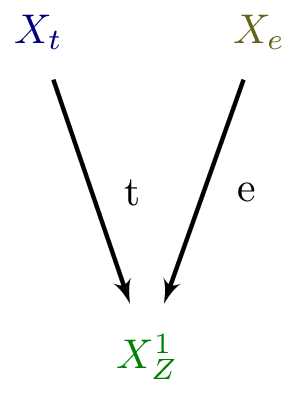
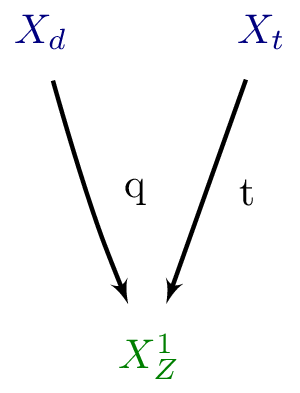
automated update by plotHiscore.py to /scratch-cbe/users/wolfgan.waltenberger/git/smodels.github.io/protomodels/latest/

diff --git a/protomodels/latest/index.html b/protomodels/latest/index.html
@@ -1,30 +1,31 @@
 <html>
 <body>
 <center>
-<table><td><h1>Current best protomodel: K=11.70</h1><td><img height=60px src=https://smodels.github.io/pics/banner.png></table>
+<table><td><h1>Current best protomodel: K=5.16</h1><td><img height=60px src=https://smodels.github.io/pics/banner.png></table>
 </center>
-<b><a href=./hiscore.slha>ProtoModel</a> <a href=./pmodel.py>(dict)</a> produced with <a href=https://smodels.github.io/docs/Validation124fake29>database v1.2.4fake29</a>, combination strategy <a href=./matrix_aggressive.png>aggressive</a> in walker 27 step 290.</b> K plots for: <a href=./M1000022.png?13733838>X<sub>Z</sub><sup>1</sup></a>, <a href=./M1000006.png?13733838>X<sub>t</sub></a>, <a href=./M1000011.png?13733838>X<sub>e</sub></a>. HPD plots for: <a href=./llhd1000006.png?13733838>X<sub>t</sub></a>, <a href=./llhd1000011.png?13733838>X<sub>e</sub></a>. SSM plots for: <a href=./ssm_-1000006_1000006.png?13733838>(x&#772;<sub>t</sub>,X<sub>t</sub>)</a><br>
+<b><a href=./hiscore.slha>ProtoModel</a> <a href=./pmodel.py>(dict)</a> produced with <a href=https://smodels.github.io/docs/Validation124fake20>database v1.2.4fake20</a>, combination strategy <a href=./matrix_aggressive.png>aggressive</a> in walker 26 step 316.</b> K plots for: <a href=./M1000022.png?13739967>X<sub>Z</sub><sup>1</sup></a>, <a href=./M1000006.png?13739967>X<sub>t</sub></a>, <a href=./M1000001.png?13739967>X<sub>d</sub></a>. HPD plots for: <a href=./llhd1000006.png?13739967>X<sub>t</sub></a>, <a href=./llhd1000001.png?13739967>X<sub>d</sub></a>. SSM plots for: <a href=./ssm_-1000006_1000006.png?13739967>(x&#772;<sub>t</sub>,X<sub>t</sub>)</a><br>
 <table width=80%>
 <tr><td>
-<br><b>30 predictions available. Highest r values are:</b><br><ul>
-<li><a href=http://cms-results.web.cern.ch/cms-results/public-results/publications/SUS-16-033/index.html>CMS-SUS-16-033</a>:T2tt r=1.30, r<sub>exp</sub>=0.82<br>
-<li><a href=https://cms-results.web.cern.ch/cms-results/public-results/publications/SUS-17-009/>CMS-SUS-17-009</a>:TSlepSlep r=1.29, r<sub>exp</sub>=2.10<br>
-<li><a href=https://atlas.web.cern.ch/Atlas/GROUPS/PHYSICS/PAPERS/SUSY-2016-24/>ATLAS-SUSY-2016-24</a>:TSlepSlep r=1.12, r<sub>exp</sub>=N/A<br>
-<li><a href=https://atlas.web.cern.ch/Atlas/GROUPS/PHYSICS/PAPERS/SUSY-2013-15/>ATLAS-SUSY-2013-15</a>:T2tt r=0.99, r<sub>exp</sub>=0.81<br>
-<li><a href=http://cms-results.web.cern.ch/cms-results/public-results/publications/SUS-16-050/index.html>CMS-SUS-16-050</a>:T2tt r=0.97, r<sub>exp</sub>=0.40<br>
+<br><b>31 predictions available. Highest r values are:</b><br><ul>
+<li><a href=http://cms-results.web.cern.ch/cms-results/public-results/publications/SUS-19-006/index.html>CMS-SUS-19-006</a>:T2tt r=1.30, r<sub>exp</sub>=0.68<br>
+<li><a href=http://cms-results.web.cern.ch/cms-results/public-results/publications/SUS-19-006/index.html>CMS-SUS-19-006</a>:T2 r=1.30, r<sub>exp</sub>=1.59<br>
+<li><a href=http://cms-results.web.cern.ch/cms-results/public-results/publications/SUS-16-050/index.html>CMS-SUS-16-050</a>:T2tt r=1.30, r<sub>exp</sub>=0.66<br>
+<li><a href=http://cms-results.web.cern.ch/cms-results/public-results/publications/SUS-16-036/index.html>CMS-SUS-16-036</a>:T2cc r=1.29, r<sub>exp</sub>=1.01<br>
+<li><a href=http://cms-results.web.cern.ch/cms-results/public-results/publications/SUS-16-033/index.html>CMS-SUS-16-033</a>:T2 r=1.12, r<sub>exp</sub>=1.44<br>
 </ul>
 <td><br><b>K values without analyses: (contribution)</b><br>
 <ul>
-<li> <a href=https://cms-results.web.cern.ch/cms-results/public-results/publications/SUS-17-009/>CMS-SUS-17-009</a>: 6.22 (15%)
-<li> <a href=http://cms-results.web.cern.ch/cms-results/public-results/publications/SUS-16-033/index.html>CMS-SUS-16-033</a>: 6.22 (15%)
-<li> <a href=https://atlas.web.cern.ch/Atlas/GROUPS/PHYSICS/PAPERS/SUSY-2013-11/>ATLAS-SUSY-2013-11</a>: 6.22 (15%)
-<li> <a href=https://atlas.web.cern.ch/Atlas/GROUPS/PHYSICS/PAPERS/SUSY-2013-04/>ATLAS-SUSY-2013-04</a>: 5.53 (17%)
-<li> <a href=https://twiki.cern.ch/twiki/bin/view/CMSPublic/PhysicsResultsSUS13011>CMS-SUS-13-011</a>: -2.84 (39%)
-<td><img width=600px src=./texdoc.png?1606733838>
-<br><font size=-1>Last updated: Mon Nov 30 11:57:18 2020</font>
+<li> <a href=https://twiki.cern.ch/twiki/bin/view/CMSPublic/PhysicsResultsSUS13012>CMS-SUS-13-012</a>: 0.80 (14%)
+<li> <a href=http://cms-results.web.cern.ch/cms-results/public-results/publications/SUS-16-049/index.html>CMS-SUS-16-049</a>: 0.80 (14%)
+<li> <a href=http://cms-results.web.cern.ch/cms-results/public-results/publications/SUS-16-051/index.html>CMS-SUS-16-051</a>: 0.80 (14%)
+<li> <a href=https://atlas.web.cern.ch/Atlas/GROUPS/PHYSICS/PAPERS/SUSY-2013-02/>ATLAS-SUSY-2013-02</a>: 0.67 (15%)
+<li> <a href=http://atlas.web.cern.ch/Atlas/GROUPS/PHYSICS/PAPERS/SUSY-2015-06/>ATLAS-SUSY-2015-06</a>: 0.43 (16%)
+<li> <a href=https://atlas.web.cern.ch/Atlas/GROUPS/PHYSICS/PAPERS/SUSY-2016-16/>ATLAS-SUSY-2016-16</a>: -2.79 (26%)
+<td><img width=600px src=./texdoc.png?1606739967>
+<br><font size=-1>Last updated: Mon Nov 30 13:39:27 2020</font>
 </table><table style="width:80%">
-<td width=45%><img height=580px src=./ruler.png?1606733838><td width=55%><img height=380px src=./decays.png?1606733838>
-<font size=-3><iframe type="text/html" height="220px" width="100%s" frameborder="0" src="./rawnumbers.html?1606733838"></iframe></font>
+<td width=45%><img height=580px src=./ruler.png?1606739967><td width=55%><img height=380px src=./decays.png?1606739967>
+<font size=-3><iframe type="text/html" height="220px" width="100%s" frameborder="0" src="./rawnumbers.html?1606739967"></iframe></font>
 </table>
 </body>
 </html>

diff --git a/protomodels/latest/rawnumbers.html b/protomodels/latest/rawnumbers.html
@@ -1,9 +1,10 @@
 <table>
 <tr><th>Analysis Name</th><th>Type</th><th>Dataset</th><th>Topos</th><th>Observed</th><th>Expected</th><th>Approx &sigma;</th><th>Particles</th>
 </tr>
-<tr><td><a href=https://atlas.web.cern.ch/Atlas/GROUPS/PHYSICS/PAPERS/SUSY-2013-04/>ATLAS-SUSY-2013-04</a></td><td>em</td> <td>GtGrid_SR_8ij80 ...</td><td>T2tt</td><td>2</td><td>0.9 +/- 0.6</td><td style="text-align:right">1.0 &sigma;</td><td style="text-align:right">X<sub>t</sub></td></tr>
-<tr><td><a href=https://atlas.web.cern.ch/Atlas/GROUPS/PHYSICS/PAPERS/SUSY-2013-11/>ATLAS-SUSY-2013-11</a></td><td>em</td> <td>Zjets</td><td>TSlepSlep</td><td>2</td><td>1.4 +/- 0.6</td><td style="text-align:right">0.5 &sigma;</td><td style="text-align:right">X<sub>e</sub></td></tr>
-<tr><td><a href=https://twiki.cern.ch/twiki/bin/view/CMSPublic/PhysicsResultsSUS13011>CMS-SUS-13-011</a></td><td>em</td> <td>LM150</td><td>T2tt</td><td>413</td><td>251 +/- 50</td><td style="text-align:right">3.1 &sigma;</td><td style="text-align:right">X<sub>t</sub></td></tr>
-<tr><td><a href=http://cms-results.web.cern.ch/cms-results/public-results/publications/SUS-16-033/index.html>CMS-SUS-16-033</a></td><td>ul</td> <td>-</td><td>T2tt</td><td> 18040.6 fb </td><td> 10559.8 fb</td><td style="text-align:right">1.4 &sigma;</td><td style="text-align:right">X<sub>t</sub></td></tr>
-<tr><td><a href=https://cms-results.web.cern.ch/cms-results/public-results/publications/SUS-17-009/>CMS-SUS-17-009</a></td><td>ul</td> <td>-</td><td>TSelSel</td><td> 45.7 fb </td><td> 19.7 fb</td><td style="text-align:right">2.6 &sigma;</td><td style="text-align:right">X<sub>e</sub></td></tr>
+<tr><td><a href=https://atlas.web.cern.ch/Atlas/GROUPS/PHYSICS/PAPERS/SUSY-2013-02/>ATLAS-SUSY-2013-02</a></td><td>em</td> <td>SR6jtp</td><td>T2</td><td>6</td><td>4.9 +/- 1.6</td><td style="text-align:right">0.4 &sigma;</td><td style="text-align:right">X<sub>d</sub></td></tr>
+<tr><td><a href=http://atlas.web.cern.ch/Atlas/GROUPS/PHYSICS/PAPERS/SUSY-2015-06/>ATLAS-SUSY-2015-06</a></td><td>em</td> <td>SR4jt</td><td>T2</td><td>6</td><td>4.1 +/- 1.1</td><td style="text-align:right">0.8 &sigma;</td><td style="text-align:right">X<sub>d</sub></td></tr>
+<tr><td><a href=https://atlas.web.cern.ch/Atlas/GROUPS/PHYSICS/PAPERS/SUSY-2016-16/>ATLAS-SUSY-2016-16</a></td><td>em</td> <td>tN_med</td><td>T2tt</td><td>55</td><td>36.3 +/- 6.6</td><td style="text-align:right">2.1 &sigma;</td><td style="text-align:right">X<sub>t</sub></td></tr>
+<tr><td><a href=https://twiki.cern.ch/twiki/bin/view/CMSPublic/PhysicsResultsSUS13012>CMS-SUS-13-012</a></td><td>ul</td> <td>-</td><td>T2</td><td> 1326.4 fb </td><td> 779.4 fb</td><td style="text-align:right">1.4 &sigma;</td><td style="text-align:right">X<sub>d</sub></td></tr>
+<tr><td><a href=http://cms-results.web.cern.ch/cms-results/public-results/publications/SUS-16-049/index.html>CMS-SUS-16-049</a></td><td>ul</td> <td>-</td><td>T2cc</td><td> 1035.2 fb </td><td> 543.6 fb</td><td style="text-align:right">1.8 &sigma;</td><td style="text-align:right">X<sub>d</sub></td></tr>
+<tr><td><a href=http://cms-results.web.cern.ch/cms-results/public-results/publications/SUS-16-051/index.html>CMS-SUS-16-051</a></td><td>ul</td> <td>-</td><td>T2tt</td><td> 31.3 fb </td><td> 24.6 fb</td><td style="text-align:right">0.5 &sigma;</td><td style="text-align:right">X<sub>t</sub></td></tr>
 </table>

diff --git a/protomodels/latest/pmodel.py b/protomodels/latest/pmodel.py
@@ -1,1 +1,1 @@
-{'masses': {1000022: 10.834, 1000006: 255.3, 1000011: 153.62}, 'ssmultipliers': {(1000022, 1000022): 0.226, (1000006, 1000006): 0.222, (-1000006, 1000006): 0.222, (-1000006, -1000006): 0.222, (1000006, 1000022): 0.222, (-1000006, 1000022): 1.008, (1000011, 1000011): 1.288, (-1000011, 1000011): 1.288, (-1000011, -1000011): 1.288, (1000011, 1000022): 1.288, (-1000011, 1000022): 1.288, (1000006, 1000011): 1.127, (-1000011, 1000006): 1.127, (-1000006, 1000011): 1.127, (-1000011, -1000006): 1.127}, 'decays': {1000022: {}, 1000006: {(1000022, 6): 1.0}, 1000011: {(1000022, 11): 1.0}}, 'timestamp': 'Mon Nov 30 11:57:10 2020', 'Z': 3.901, 'K': 11.695, 'walkerid': 27, 'step': 290, 'codever': '1.0', 'dbver': '1.2.4fake29'}
+{'masses': {1000022: 448.704, 1000001: 524.547, 1000006: 826.901}, 'ssmultipliers': {(1000022, 1000022): 1.12, (1000001, 1000001): 0.0, (-1000001, 1000001): 1.47, (-1000001, -1000001): 1.47, (1000001, 1000022): 0.0, (-1000001, 1000022): 0.0, (1000006, 1000006): 0.561, (-1000006, 1000006): 0.561, (-1000006, -1000006): 1.027, (1000006, 1000022): 0.561, (-1000006, 1000022): 1.127, (1000001, 1000006): 0.741, (-1000006, 1000001): 0.741, (-1000001, 1000006): 0.741, (-1000006, -1000001): 0.741}, 'decays': {1000022: {}, 1000001: {(1000022, 1): 1.0}, 1000006: {(1000022, 6): 1.0}}, 'timestamp': 'Mon Nov 30 13:39:17 2020', 'Z': 2.942, 'K': 5.155, 'walkerid': 26, 'step': 316, 'codever': '1.0', 'dbver': '1.2.4fake20'}
